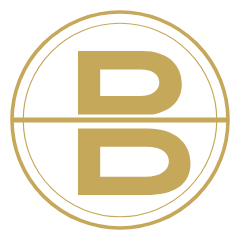
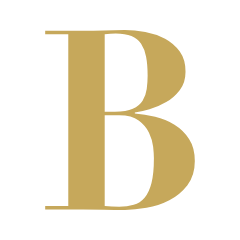
Replace the badge mark with a Didot house B.
Drop the ring and slash so Blackline reads as a serif monogram on stationery, not an app icon.

diff --git a/src/lib/stationery.ts b/src/lib/stationery.ts
@@ -2,7 +2,7 @@ import { FIRM } from "@/lib/constants";
 
 /** Raster of the datum mark — Google Docs keeps PNG; SVG is often stripped. */
 const MARK_PNG =
[2 lines of base64/hex data omitted]
 
 export function stripLegacyFirmHeader(body: string): string {
   return body.replace(/^\uFEFF/, "").replace(

diff --git a/src/components/brand/blackline-mark.tsx b/src/components/brand/blackline-mark.tsx
@@ -1,15 +1,15 @@
 import { cn } from "@/lib/utils";
 
+const DIDOT_B =
+  "M34.90 37.28V11.42Q35.82 11.34 36.74 11.26Q37.66 11.17 38.58 11.17Q41.76 11.17 43.81 12.01Q45.86 12.85 47.03 14.56Q48.20 16.28 48.70 18.91Q49.21 21.55 49.21 25.23Q49.21 27.49 48.91 29.67Q48.62 31.84 47.53 33.56Q46.44 35.27 44.27 36.28Q42.09 37.28 38.33 37.28ZM34.90 68.66V38.45H39.75Q43.93 38.45 46.23 40.17Q48.54 41.88 49.67 44.23Q50.79 46.57 51.05 48.95Q51.30 51.34 51.30 52.76Q51.30 57.87 50.50 61.00Q49.71 64.14 48.20 65.90Q46.69 67.66 44.56 68.28Q42.43 68.91 39.75 68.91Q37.15 68.91 34.90 68.66ZM22.76 11.42V68.66H15.06V69.83H27.70Q31.21 69.83 34.69 69.92Q38.16 70.00 41.67 70.00Q44.85 70.00 48.87 69.29Q52.89 68.58 56.44 66.74Q60.00 64.90 62.47 61.72Q64.94 58.54 64.94 53.68Q64.94 49.25 63.01 46.32Q61.09 43.39 58.16 41.59Q55.23 39.79 51.72 38.95Q48.20 38.12 44.94 37.87V37.53Q46.95 37.28 49.83 36.44Q52.72 35.61 55.40 34.02Q58.08 32.43 59.96 29.96Q61.84 27.49 61.84 23.89Q61.84 19.87 59.92 17.20Q57.99 14.52 55.02 12.93Q52.05 11.34 48.45 10.67Q44.85 10.00 41.59 10.00Q38.08 10.00 34.64 10.13Q31.21 10.25 27.70 10.25H15.06V11.42Z";
+
 type Props = {
   size?: number;
   className?: string;
   title?: string;
 };
 
-/**
- * Blackline monogram — a constructed B whose waist is the black line.
- * The line runs through the seal and out the sides.
- */
+/** Didot monogram — the house B, no badge, no frame. */
 export function BlacklineMark({
   size = 40,
   className,
@@ -25,40 +25,7 @@ export function BlacklineMark({
       role="img"
       aria-label={title}
     >
-      <circle
-        cx="40"
-        cy="40"
-        r="36"
-        fill="none"
-        stroke="currentColor"
-        strokeWidth="1.2"
-      />
-      <circle
-        cx="40"
-        cy="40"
-        r="32.25"
-        fill="none"
-        stroke="currentColor"
-        strokeWidth="0.4"
-      />
-      <line
-        x1="4"
-        y1="40"
-        x2="76"
-        y2="40"
-        stroke="currentColor"
-        strokeWidth="1.7"
-      />
-      <path
-        fill="currentColor"
-        fillRule="evenodd"
-        d="M26 17h21.5c8.2 0 13.1 4.4 13.1 11.1 0 5.1-3.2 8.8-9.6 10.1h-25V17zm7.4 6.2v8.8h13.2c4.3 0 6.5-2 6.5-4.5s-2.1-4.3-6.2-4.3H33.4z"
-      />
-      <path
-        fill="currentColor"
-        fillRule="evenodd"
-        d="M26 42.8h23.2c9.1 0 14.3 4.8 14.3 11.6 0 7.4-5.8 10.6-14.8 10.6H26V42.8zm7.4 6.1v10h15.1c5.1 0 7.8-2.3 7.8-5.1 0-2.9-2.6-4.9-7.6-4.9H33.4z"
-      />
+      <path fill="currentColor" d={DIDOT_B} />
     </svg>
   );
 }

diff --git a/src/app/login/login-form.tsx b/src/app/login/login-form.tsx
@@ -74,16 +74,17 @@ export default function LoginForm() {
           </p>
         </div>
 
-        <div className="mb-8 w-full border border-brand-white/10 bg-brand-navy-deep/40 px-4 py-5">
+        <div className="mb-8 w-full border border-brand-white/10 bg-brand-navy-deep/40 px-4 py-6">
           <p className="font-sans text-[9px] font-bold uppercase tracking-[0.2em] text-brand-slate">
             Operated for
           </p>
-          <div className="mt-3 flex flex-col items-center">
-            <BlacklineMark size={56} className="text-brand-gold" />
-            <p className="mt-3 font-serif text-sm font-semibold tracking-[0.22em] text-brand-gold">
+          <div className="mt-4 flex flex-col items-center">
+            <BlacklineMark size={64} className="text-brand-gold" />
+            <p className="mt-4 font-serif text-sm font-semibold tracking-[0.28em] text-brand-gold">
               BLACKLINE
             </p>
-            <p className="mt-1 font-serif text-[9px] font-semibold uppercase tracking-[0.2em] text-brand-white/70">
+            <div className="mt-2.5 h-px w-16 bg-brand-gold/70" />
+            <p className="mt-2.5 font-serif text-[9px] font-semibold uppercase tracking-[0.22em] text-brand-white/70">
               Public Adjusters LLC
             </p>
           </div>

diff --git a/src/components/brand/letterhead.tsx b/src/components/brand/letterhead.tsx
@@ -6,7 +6,7 @@ export function Letterhead({ className }: { className?: string }) {
   return (
     <header className={cn("mb-10", className)}>
       <div className="flex items-center gap-4">
-        <BlacklineMark size={52} className="text-[#C6A85B]" />
+        <BlacklineMark size={48} className="text-[#C6A85B]" />
         <div className="min-w-0">
           <p className="font-serif text-[1.55rem] font-bold leading-none tracking-[0.22em] text-[#0F1C2E] sm:text-[1.7rem]">
             BLACKLINE
